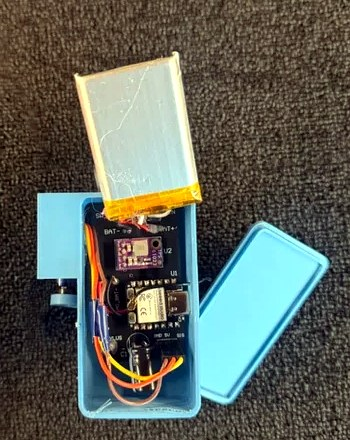
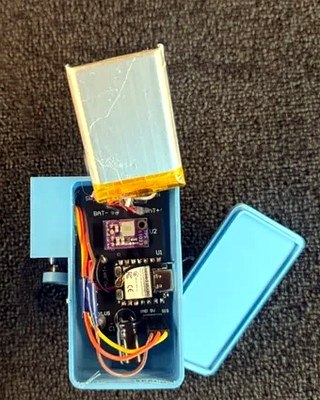
Match height of inside photos

diff --git a/README.md b/README.md
@@ -33,9 +33,9 @@ The RX unit is built around:
 - 1000 µF capacitor on the 5 V rail to handle the servo's current spikes
 
 <p align="center">
-  <img src="docs/images/tx_inside.jpg" alt="Inside the TX remote" width="300">
+  <img src="docs/images/tx_inside.jpg" alt="Inside the TX remote" height="300">
   &nbsp;&nbsp;
-  <img src="docs/images/rx_inside.jpg" alt="Inside the RX unit" width="270">
+  <img src="docs/images/rx_inside.jpg" alt="Inside the RX unit" height="300">
 </p>
 
 ## PCB Design
